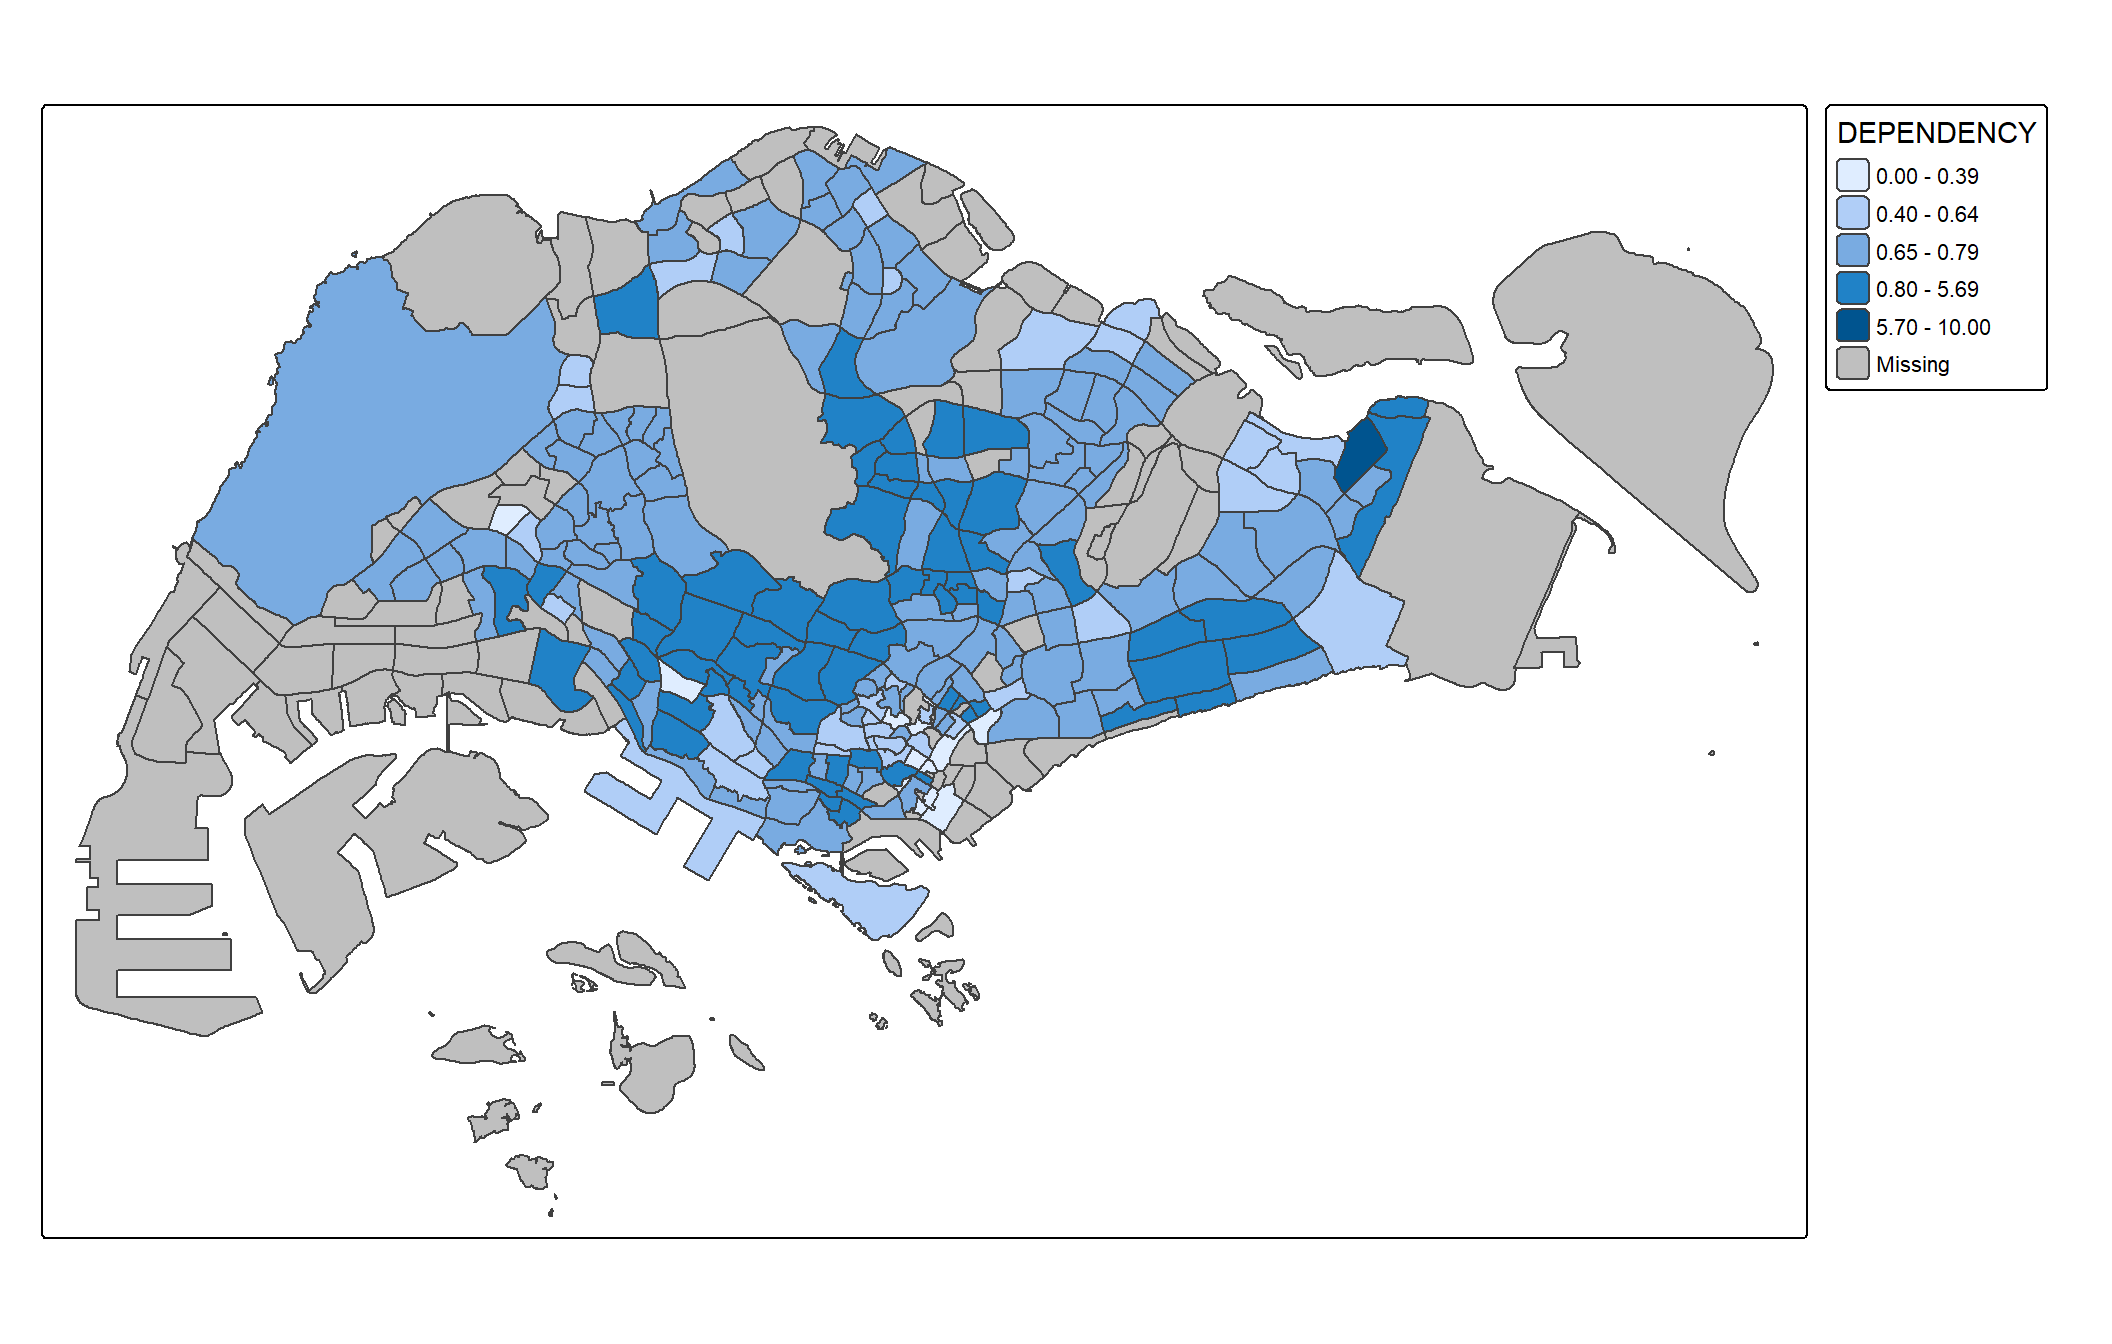
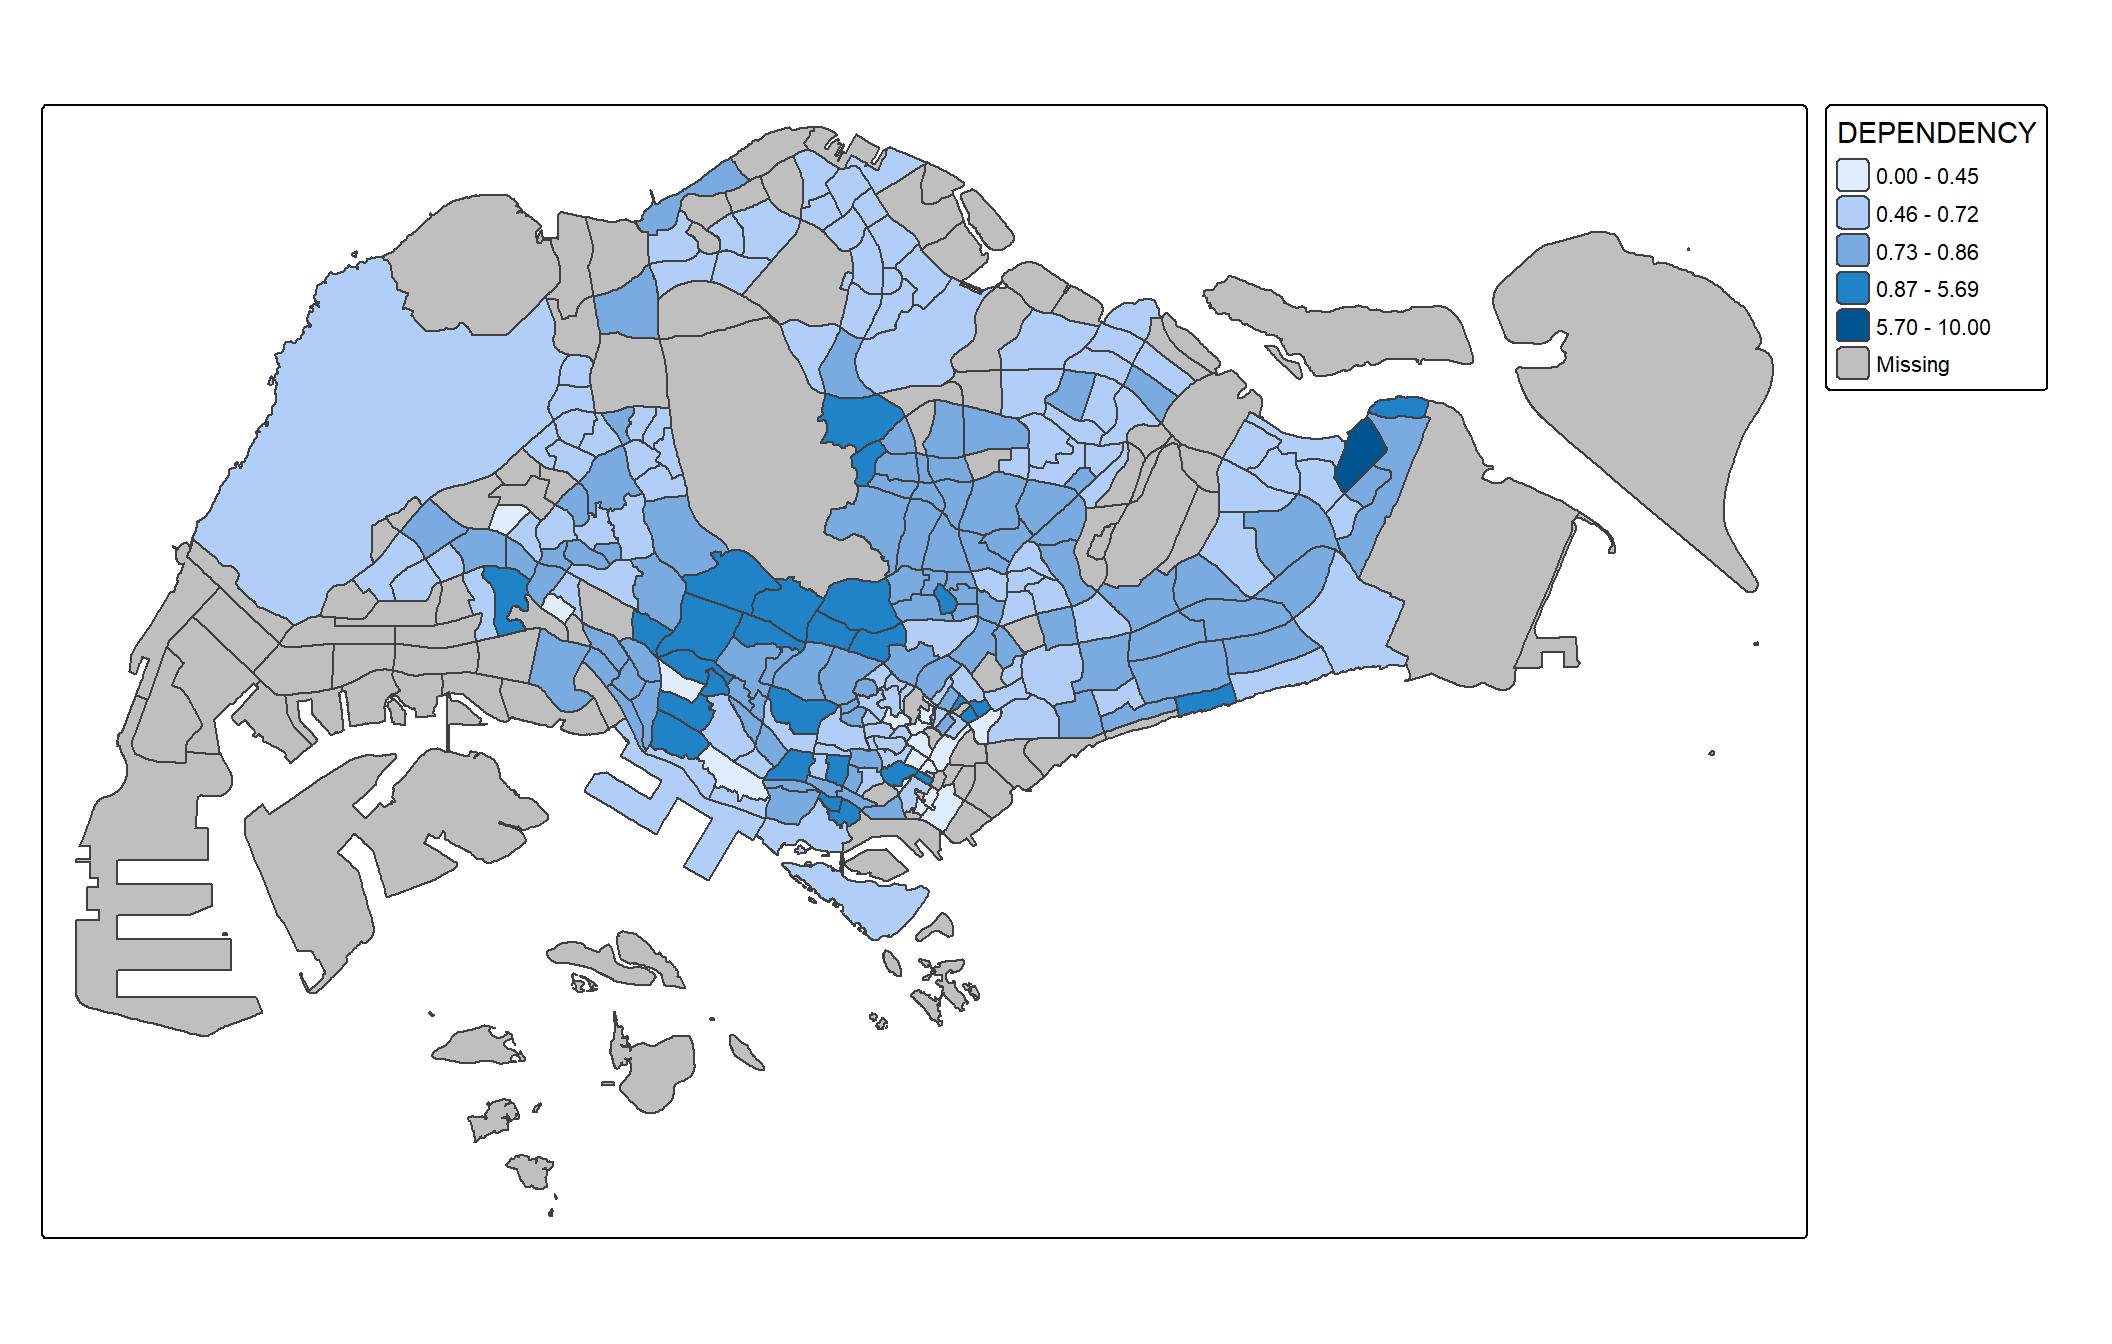
Commit after updating section 4.5 Map Layout

Changed region(s): [[0.0938, 0.0938, 0.6875, 0.6562], [0.9062, 0.125, 0.9375, 0.1875]]

diff --git a/_site/Hands-on_Ex/Hands-on_Ex01B/Hands-on_Ex01B.html b/_site/Hands-on_Ex/Hands-on_Ex01B/Hands-on_Ex01B.html
@@ -206,6 +206,8 @@ pre > code.sourceCode > span > a:first-child::before { text-decoration: underlin
   <li><a href="#plotting-a-choropleth-map-quickly-using-qtm" id="toc-plotting-a-choropleth-map-quickly-using-qtm" class="nav-link" data-scroll-target="#plotting-a-choropleth-map-quickly-using-qtm">4.1 Plotting a choropleth map quickly using qtm()</a></li>
   <li><a href="#creating-a-choropleth-map-by-using-tmaps-elements" id="toc-creating-a-choropleth-map-by-using-tmaps-elements" class="nav-link" data-scroll-target="#creating-a-choropleth-map-by-using-tmaps-elements">4.2 Creating a choropleth map by using tmap’s elements</a></li>
   <li><a href="#data-classification-methods-of-tmap" id="toc-data-classification-methods-of-tmap" class="nav-link" data-scroll-target="#data-classification-methods-of-tmap">4.3 Data classification methods of tmap</a></li>
+  <li><a href="#colour-scheme" id="toc-colour-scheme" class="nav-link" data-scroll-target="#colour-scheme">4.4 Colour Scheme</a></li>
+  <li><a href="#map-layout" id="toc-map-layout" class="nav-link" data-scroll-target="#map-layout">4.5 Map Layout</a></li>
   </ul></li>
   </ul>
 </nav>
@@ -970,10 +972,6 @@ Note
 <span id="cb36-3"><a href="#cb36-3" aria-hidden="true" tabindex="-1"></a>              <span class="at">fill.scale =</span> <span class="fu">tm_scale_intervals</span>(</span>
 <span id="cb36-4"><a href="#cb36-4" aria-hidden="true" tabindex="-1"></a>                <span class="at">breaks =</span> <span class="fu">c</span>(<span class="dv">0</span>, <span class="fl">0.60</span>, <span class="fl">0.70</span>, <span class="fl">0.80</span>, <span class="fl">0.90</span>, <span class="fl">1.00</span>))) <span class="sc">+</span></span>
 <span id="cb36-5"><a href="#cb36-5" aria-hidden="true" tabindex="-1"></a>  <span class="fu">tm_borders</span>(<span class="at">fill_alpha =</span> <span class="fl">0.5</span>)</span></code></pre></div><button title="Copy to Clipboard" class="code-copy-button"><i class="bi"></i></button></div>
-<div class="cell-output cell-output-stderr">
-<pre><code>Warning: Values have found that are higher than the highest break. They are
-assigned to the highest interval</code></pre>
-</div>
 <div class="cell-output-display">
 <div>
 <figure class="figure">
@@ -981,6 +979,132 @@ assigned to the highest interval</code></pre>
 </figure>
 </div>
 </div>
+</div>
+</section>
+</section>
+<section id="colour-scheme" class="level3">
+<h3 class="anchored" data-anchor-id="colour-scheme">4.4 Colour Scheme</h3>
+<p><strong>tmap</strong> supports colour ramps either defined by the user or a set of predefined colour ramps from the <strong>RColorBrewer</strong> package.</p>
+<section id="using-colourbrewer-palette" class="level4">
+<h4 class="anchored" data-anchor-id="using-colourbrewer-palette">4.4.1 Using ColourBrewer Palette</h4>
+<p>To change the colour, the preferred palette is assigned to the <code>values</code> argument.</p>
+<div class="cell">
+<div class="code-copy-outer-scaffold"><div class="sourceCode cell-code" id="cb37"><pre class="sourceCode r code-with-copy"><code class="sourceCode r"><span id="cb37-1"><a href="#cb37-1" aria-hidden="true" tabindex="-1"></a><span class="fu">tm_shape</span>(mpsz_pop2024) <span class="sc">+</span></span>
+<span id="cb37-2"><a href="#cb37-2" aria-hidden="true" tabindex="-1"></a>  <span class="fu">tm_polygons</span>(<span class="at">fill =</span> <span class="st">"DEPENDENCY"</span>,</span>
+<span id="cb37-3"><a href="#cb37-3" aria-hidden="true" tabindex="-1"></a>              <span class="at">fill.scale =</span> <span class="fu">tm_scale_intervals</span>(</span>
+<span id="cb37-4"><a href="#cb37-4" aria-hidden="true" tabindex="-1"></a>                <span class="at">style =</span> <span class="st">"quantile"</span>,</span>
+<span id="cb37-5"><a href="#cb37-5" aria-hidden="true" tabindex="-1"></a>                <span class="at">n =</span> <span class="dv">5</span>,</span>
+<span id="cb37-6"><a href="#cb37-6" aria-hidden="true" tabindex="-1"></a>                <span class="at">values =</span> <span class="st">"brewer.greens"</span>)) <span class="sc">+</span></span>
+<span id="cb37-7"><a href="#cb37-7" aria-hidden="true" tabindex="-1"></a>  <span class="fu">tm_borders</span>(<span class="at">fill_alpha =</span> <span class="fl">0.5</span>)</span></code></pre></div><button title="Copy to Clipboard" class="code-copy-button"><i class="bi"></i></button></div>
+<div class="cell-output-display">
+<div>
+<figure class="figure">
+<p><img src="Hands-on_Ex01B_files/figure-html/unnamed-chunk-34-1.png" class="img-fluid figure-img" width="672"></p>
+</figure>
+</div>
+</div>
+</div>
+<p>Notice that the choropleth map is shaded in green.</p>
+<p>To reverse the colour shading, add a “-” prefix.</p>
+<div class="cell">
+<div class="code-copy-outer-scaffold"><div class="sourceCode cell-code" id="cb38"><pre class="sourceCode r code-with-copy"><code class="sourceCode r"><span id="cb38-1"><a href="#cb38-1" aria-hidden="true" tabindex="-1"></a><span class="fu">tm_shape</span>(mpsz_pop2024) <span class="sc">+</span></span>
+<span id="cb38-2"><a href="#cb38-2" aria-hidden="true" tabindex="-1"></a>  <span class="fu">tm_polygons</span>(<span class="at">fill =</span> <span class="st">"DEPENDENCY"</span>,</span>
+<span id="cb38-3"><a href="#cb38-3" aria-hidden="true" tabindex="-1"></a>              <span class="at">fill.scale =</span> <span class="fu">tm_scale_intervals</span>(</span>
+<span id="cb38-4"><a href="#cb38-4" aria-hidden="true" tabindex="-1"></a>                <span class="at">style =</span> <span class="st">"quantile"</span>,</span>
+<span id="cb38-5"><a href="#cb38-5" aria-hidden="true" tabindex="-1"></a>                <span class="at">n =</span> <span class="dv">5</span>,</span>
+<span id="cb38-6"><a href="#cb38-6" aria-hidden="true" tabindex="-1"></a>                <span class="at">values =</span> <span class="st">"-brewer.greens"</span>)) <span class="sc">+</span></span>
+<span id="cb38-7"><a href="#cb38-7" aria-hidden="true" tabindex="-1"></a>  <span class="fu">tm_borders</span>(<span class="at">fill_alpha =</span> <span class="fl">0.5</span>)</span></code></pre></div><button title="Copy to Clipboard" class="code-copy-button"><i class="bi"></i></button></div>
+<div class="cell-output-display">
+<div>
+<figure class="figure">
+<p><img src="Hands-on_Ex01B_files/figure-html/unnamed-chunk-35-1.png" class="img-fluid figure-img" width="672"></p>
+</figure>
+</div>
+</div>
+</div>
+<p>Notice that the colour scheme has been reversed.</p>
+</section>
+<section id="cartographic-furniture" class="level4">
+<h4 class="anchored" data-anchor-id="cartographic-furniture">4.4.2 Cartographic Furniture</h4>
+<p>Beside map style, <strong>tmap</strong> also provides arguments to draw other map furniture such as compass, scale bar and grid lines.</p>
+<p>In the code chunk below, <code>tm_compass()</code>, <code>tm_scale_bar()</code>, <code>tm_grid()</code>, and <code>tm_credit()</code> are used to add compass, scale bar, grid lines and data sources onto the choropleth map.</p>
+<div class="cell">
+<div class="code-copy-outer-scaffold"><div class="sourceCode cell-code" id="cb39"><pre class="sourceCode r code-with-copy"><code class="sourceCode r"><span id="cb39-1"><a href="#cb39-1" aria-hidden="true" tabindex="-1"></a><span class="fu">tm_shape</span>(mpsz_pop2024) <span class="sc">+</span></span>
+<span id="cb39-2"><a href="#cb39-2" aria-hidden="true" tabindex="-1"></a>  <span class="fu">tm_polygons</span>(<span class="at">fill =</span> <span class="st">"DEPENDENCY"</span>,</span>
+<span id="cb39-3"><a href="#cb39-3" aria-hidden="true" tabindex="-1"></a>              <span class="at">fill.scale =</span> <span class="fu">tm_scale_intervals</span>(</span>
+<span id="cb39-4"><a href="#cb39-4" aria-hidden="true" tabindex="-1"></a>                <span class="at">style =</span> <span class="st">"quantile"</span>,</span>
+<span id="cb39-5"><a href="#cb39-5" aria-hidden="true" tabindex="-1"></a>                <span class="at">n =</span> <span class="dv">5</span>)) <span class="sc">+</span></span>
+<span id="cb39-6"><a href="#cb39-6" aria-hidden="true" tabindex="-1"></a>  <span class="fu">tm_borders</span>(<span class="at">fill_alpha =</span> <span class="fl">0.5</span>) <span class="sc">+</span></span>
+<span id="cb39-7"><a href="#cb39-7" aria-hidden="true" tabindex="-1"></a>  <span class="fu">tm_compass</span>(<span class="at">type=</span><span class="st">"8star"</span>, <span class="at">size =</span> <span class="dv">2</span>) <span class="sc">+</span></span>
+<span id="cb39-8"><a href="#cb39-8" aria-hidden="true" tabindex="-1"></a>  <span class="fu">tm_scalebar</span>() <span class="sc">+</span></span>
+<span id="cb39-9"><a href="#cb39-9" aria-hidden="true" tabindex="-1"></a>  <span class="fu">tm_grid</span>(<span class="at">lwd =</span> <span class="fl">0.1</span>, <span class="at">alpha =</span> <span class="fl">0.2</span>) <span class="sc">+</span></span>
+<span id="cb39-10"><a href="#cb39-10" aria-hidden="true" tabindex="-1"></a>  <span class="fu">tm_credits</span>(<span class="st">"Source: data.gov.sg &amp; singstat"</span>,</span>
+<span id="cb39-11"><a href="#cb39-11" aria-hidden="true" tabindex="-1"></a>             <span class="at">position =</span> <span class="fu">c</span>(<span class="st">"left"</span>, <span class="st">"bottom"</span>))</span></code></pre></div><button title="Copy to Clipboard" class="code-copy-button"><i class="bi"></i></button></div>
+<div class="cell-output-display">
+<div>
+<figure class="figure">
+<p><img src="Hands-on_Ex01B_files/figure-html/unnamed-chunk-36-1.png" class="img-fluid figure-img" width="672"></p>
+</figure>
+</div>
+</div>
+</div>
+</section>
+</section>
+<section id="map-layout" class="level3">
+<h3 class="anchored" data-anchor-id="map-layout">4.5 Map Layout</h3>
+<p>Map layout refers to the combination of all map elements into a cohensive map. It includes the map background, frame, typography, scale, aspect ratio, margins, and more.</p>
+<p>The map layout can be customized using the <code>tm_layout()</code> function. This section covers the most often used arguments of this function, using the dependency choropleth map as an example.</p>
+<section id="map-legend" class="level4">
+<h4 class="anchored" data-anchor-id="map-legend">4.5.1 Map Legend</h4>
+<p>In <strong>tmap</strong>, several legend options are provided to change the placement, format and appearance of the legend.</p>
+<div class="cell">
+<div class="code-copy-outer-scaffold"><div class="sourceCode cell-code" id="cb40"><pre class="sourceCode r code-with-copy"><code class="sourceCode r"><span id="cb40-1"><a href="#cb40-1" aria-hidden="true" tabindex="-1"></a><span class="fu">tm_shape</span>(mpsz_pop2024) <span class="sc">+</span></span>
+<span id="cb40-2"><a href="#cb40-2" aria-hidden="true" tabindex="-1"></a>  <span class="fu">tm_polygons</span>(<span class="at">fill =</span> <span class="st">"DEPENDENCY"</span>,</span>
+<span id="cb40-3"><a href="#cb40-3" aria-hidden="true" tabindex="-1"></a>              <span class="at">fill.scale =</span> <span class="fu">tm_scale_intervals</span>(</span>
+<span id="cb40-4"><a href="#cb40-4" aria-hidden="true" tabindex="-1"></a>                <span class="at">style =</span> <span class="st">"quantile"</span>,</span>
+<span id="cb40-5"><a href="#cb40-5" aria-hidden="true" tabindex="-1"></a>                <span class="at">n =</span> <span class="dv">5</span>),</span>
+<span id="cb40-6"><a href="#cb40-6" aria-hidden="true" tabindex="-1"></a>              <span class="at">fill.legend =</span> <span class="fu">tm_legend</span>(</span>
+<span id="cb40-7"><a href="#cb40-7" aria-hidden="true" tabindex="-1"></a>                <span class="at">title =</span> <span class="st">"Dependency Ratio"</span>)) <span class="sc">+</span></span>
+<span id="cb40-8"><a href="#cb40-8" aria-hidden="true" tabindex="-1"></a>  <span class="fu">tm_pos_auto_in</span>() <span class="sc">+</span></span>
+<span id="cb40-9"><a href="#cb40-9" aria-hidden="true" tabindex="-1"></a>  <span class="fu">tm_borders</span>(<span class="at">fill_alpha =</span> <span class="fl">0.5</span>) <span class="sc">+</span></span>
+<span id="cb40-10"><a href="#cb40-10" aria-hidden="true" tabindex="-1"></a>  <span class="fu">tm_compass</span>(<span class="at">type=</span><span class="st">"8star"</span>, <span class="at">size =</span> <span class="dv">2</span>) <span class="sc">+</span></span>
+<span id="cb40-11"><a href="#cb40-11" aria-hidden="true" tabindex="-1"></a>  <span class="fu">tm_scalebar</span>() <span class="sc">+</span></span>
+<span id="cb40-12"><a href="#cb40-12" aria-hidden="true" tabindex="-1"></a>  <span class="fu">tm_grid</span>(<span class="at">lwd =</span> <span class="fl">0.1</span>, <span class="at">alpha =</span> <span class="fl">0.2</span>) <span class="sc">+</span></span>
+<span id="cb40-13"><a href="#cb40-13" aria-hidden="true" tabindex="-1"></a>  <span class="fu">tm_credits</span>(<span class="st">"Source: data.gov.sg &amp; singstat"</span>,</span>
+<span id="cb40-14"><a href="#cb40-14" aria-hidden="true" tabindex="-1"></a>             <span class="at">position =</span> <span class="fu">c</span>(<span class="st">"left"</span>, <span class="st">"bottom"</span>))</span></code></pre></div><button title="Copy to Clipboard" class="code-copy-button"><i class="bi"></i></button></div>
+<div class="cell-output-display">
+<div>
+<figure class="figure">
+<p><img src="Hands-on_Ex01B_files/figure-html/unnamed-chunk-37-1.png" class="img-fluid figure-img" width="672"></p>
+</figure>
+</div>
+</div>
+</div>
+</section>
+<section id="map-style" class="level4">
+<h4 class="anchored" data-anchor-id="map-style">4.5.2 Map Style</h4>
+<p><strong>tmap</strong> allows a wide variety of layout settings to be changed. They can be called by using <code>tmap_style()</code>.</p>
+<p>The code chunk below shows the <em>natural</em> style is used.</p>
+<div class="cell">
+<div class="code-copy-outer-scaffold"><div class="sourceCode cell-code" id="cb41"><pre class="sourceCode r code-with-copy"><code class="sourceCode r"><span id="cb41-1"><a href="#cb41-1" aria-hidden="true" tabindex="-1"></a><span class="fu">tm_shape</span>(mpsz_pop2024) <span class="sc">+</span></span>
+<span id="cb41-2"><a href="#cb41-2" aria-hidden="true" tabindex="-1"></a>  <span class="fu">tm_polygons</span>(<span class="at">fill =</span> <span class="st">"DEPENDENCY"</span>,</span>
+<span id="cb41-3"><a href="#cb41-3" aria-hidden="true" tabindex="-1"></a>              <span class="at">fill.scale =</span> <span class="fu">tm_scale_intervals</span>(</span>
+<span id="cb41-4"><a href="#cb41-4" aria-hidden="true" tabindex="-1"></a>                <span class="at">style =</span> <span class="st">"quantile"</span>,</span>
+<span id="cb41-5"><a href="#cb41-5" aria-hidden="true" tabindex="-1"></a>                <span class="at">n =</span> <span class="dv">5</span>,</span>
+<span id="cb41-6"><a href="#cb41-6" aria-hidden="true" tabindex="-1"></a>                <span class="at">values =</span> <span class="st">"-brewer.greens"</span>)) <span class="sc">+</span> </span>
+<span id="cb41-7"><a href="#cb41-7" aria-hidden="true" tabindex="-1"></a>  <span class="fu">tm_borders</span>(<span class="at">fill_alpha =</span> <span class="fl">0.5</span>) <span class="sc">+</span> </span>
+<span id="cb41-8"><a href="#cb41-8" aria-hidden="true" tabindex="-1"></a>  <span class="fu">tmap_style</span>(<span class="st">"natural"</span>)</span></code></pre></div><button title="Copy to Clipboard" class="code-copy-button"><i class="bi"></i></button></div>
+<div class="cell-output-display">
+<div>
+<figure class="figure">
+<p><img src="Hands-on_Ex01B_files/figure-html/unnamed-chunk-38-1.png" class="img-fluid figure-img" width="672"></p>
+</figure>
+</div>
+</div>
+</div>
+<p>To restore the default style, the following code is used:</p>
+<div class="cell">
+<div class="code-copy-outer-scaffold"><div class="sourceCode cell-code" id="cb42"><pre class="sourceCode r code-with-copy"><code class="sourceCode r"><span id="cb42-1"><a href="#cb42-1" aria-hidden="true" tabindex="-1"></a><span class="fu">tmap_style</span>(<span class="st">"white"</span>)</span></code></pre></div><button title="Copy to Clipboard" class="code-copy-button"><i class="bi"></i></button></div>
 </div>
 
 
